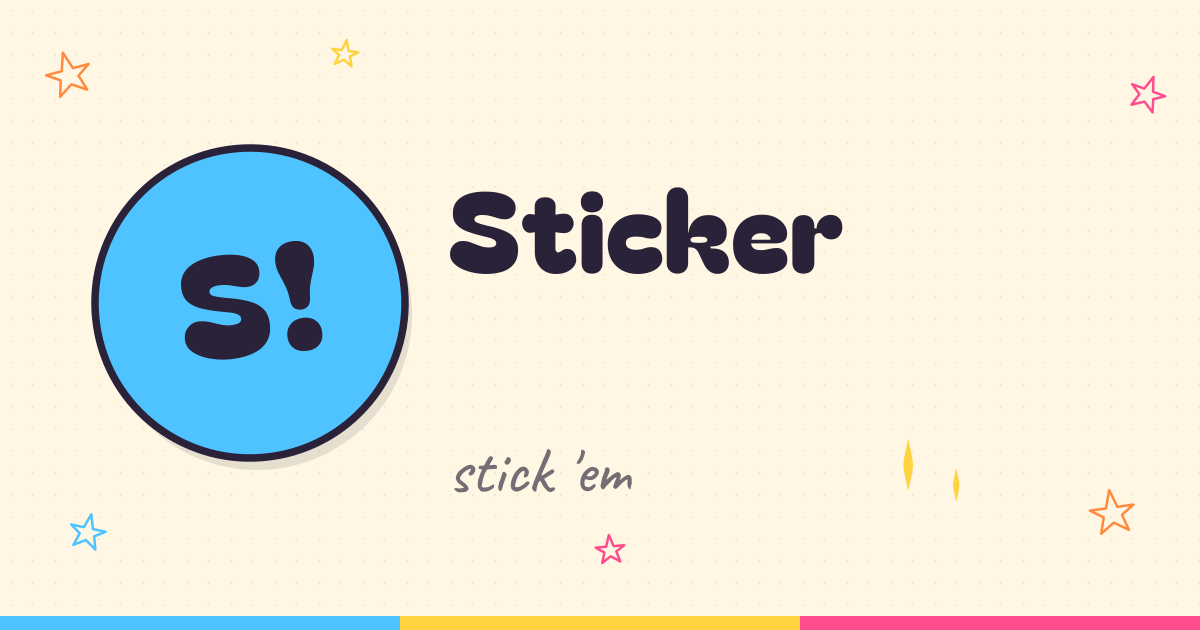
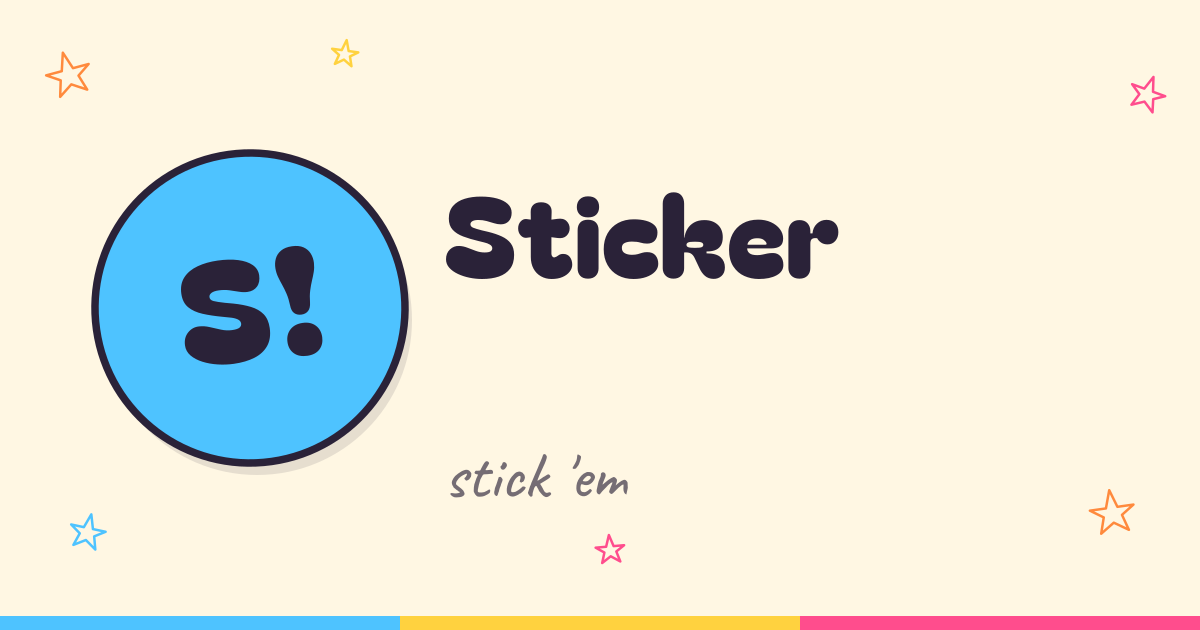
Fix OG image text truncation — remove polka dots
The 1512 SVG circle elements (~95KB) overwhelmed librsvg causing
it to bail mid-render, truncating 'Sticker Stop' to 'Sticker' and
'stick em everywhere' to 'stick em'. Removed dots and sparkles to
keep SVG under 40KB. Edge stars remain for decoration.

https://claude.ai/code/session_01Y8iosHZQgAJEX6SNKrp2Bk

diff --git a/scripts/gen-og.js b/scripts/gen-og.js
@@ -16,114 +16,80 @@ const root = path.resolve(__dirname, '..');
 const bagel  = opentype.parse(fs.readFileSync(path.join(root, 'BagelFatOne.ttf')).buffer);
 const caveat = opentype.parse(fs.readFileSync(path.join(root, 'Caveat-Regular.ttf')).buffer);
 
-// Returns an SVG <path> element with fill set
 function textPath(font, text, x, y, size, fill) {
   const p = font.getPath(text, x, y, size);
   p.fill = fill;
   return p.toSVG(2);
 }
 
-// Places text so its visual bounding-box centre sits at (cx, cy)
 function centred(font, text, cx, cy, size, fill) {
   const bb = font.getPath(text, 0, 0, size).getBoundingBox();
   return textPath(font, text, cx - (bb.x1 + bb.x2) / 2, cy - (bb.y1 + bb.y2) / 2, size, fill);
 }
 
-// ── Design tokens ─────────────────────────────────────────────────────────────
+// ── Tokens ────────────────────────────────────────────────────────────────────
 const paper    = '#fff7e3';
 const ink      = '#2a2238';
 const blue     = '#4ec3ff';
 const yellow   = '#ffd23f';
 const pink     = '#ff4d8d';
 const orange   = '#ff8a3d';
-const inkMuted = '#756d74'; // ink at ~65% opacity on paper
+const inkMuted = '#756d74';
 
 const W = 1200, H = 630, BAR = 14;
+const badgeCx = 250, badgeCy = 308, badgeR = 155;
 
-// ── Badge ─────────────────────────────────────────────────────────────────────
-const badgeCx = 250, badgeCy = Math.round((H - BAR) / 2) - 5, badgeR = 155;
-
-// ── Text layout — vertically centre the two-line block on the badge ───────────
+// ── Text layout ───────────────────────────────────────────────────────────────
 const TITLE_SZ   = 112;
 const TAGLINE_SZ = 64;
-const TEXT_X     = 448;
+const TEXT_X     = 444;
 
-const tBB  = bagel.getPath('Sticker Stop', 0, 0, TITLE_SZ).getBoundingBox();
-const gBB  = caveat.getPath("stick 'em everywhere", 0, 0, TAGLINE_SZ).getBoundingBox();
+const tBB = bagel.getPath('Sticker Stop', 0, 0, TITLE_SZ).getBoundingBox();
+const gBB = caveat.getPath("stick 'em everywhere", 0, 0, TAGLINE_SZ).getBoundingBox();
 
-const LINE_GAP   = 66;
-const blockH     = (tBB.y2 - tBB.y1) + LINE_GAP + (gBB.y2 - gBB.y1);
-const titleY     = badgeCy - blockH / 2 - tBB.y1;
-const taglineY   = titleY + (tBB.y2 - tBB.y1) + LINE_GAP - gBB.y1;
+const LINE_GAP = 66;
+const blockH   = (tBB.y2 - tBB.y1) + LINE_GAP + (gBB.y2 - gBB.y1);
+const titleY   = badgeCy - blockH / 2 - tBB.y1;
+const taglineY = titleY + (tBB.y2 - tBB.y1) + LINE_GAP - gBB.y1;
 
-// Sparkles sit just right of the tagline, centred on it
-const taglineRight = TEXT_X + (gBB.x2 - gBB.x1);
-const sparkMidY    = taglineY + (gBB.y1 + gBB.y2) / 2;
-
-// ── 4-pointed sparkle star ────────────────────────────────────────────────────
-function sparkle(cx, cy, r, color) {
-  const ri = r * 0.18;
-  const d = `M0,${-r} C${ri},${-ri} ${ri},${-ri} ${ri},0 C${ri},${ri} ${ri},${ri} 0,${r} C${-ri},${ri} ${-ri},${ri} ${-ri},0 C${-ri},${-ri} ${-ri},${-ri} 0,${-r}Z`;
-  return `<path d="${d}" fill="${color}" transform="translate(${cx},${cy})"/>`;
-}
-
-// ── Outline star (edge decoration) ───────────────────────────────────────────
-const S = 'M0-10 2.9-1.2 11-1.2 4.6 3.1 7 11 0 6.4-7 11-4.6 3.1-11-1.2-2.9-1.2z';
-function edgeStar(cx, cy, sz, color, rot = 0) {
+// ── Outline star ──────────────────────────────────────────────────────────────
+const STAR = 'M0-10 2.9-1.2 11-1.2 4.6 3.1 7 11 0 6.4-7 11-4.6 3.1-11-1.2-2.9-1.2z';
+function star(cx, cy, sz, color, rot = 0) {
   const sc = sz / 20;
   return `<g transform="translate(${cx},${cy}) rotate(${rot}) scale(${sc})">
-    <path d="${S}" fill="none" stroke="${color}" stroke-width="${2.5 / sc}" stroke-linejoin="round"/>
+    <path d="${STAR}" fill="none" stroke="${color}" stroke-width="${2.5 / sc}" stroke-linejoin="round"/>
   </g>`;
 }
 
-// ── Polka dots ────────────────────────────────────────────────────────────────
-function dots() {
-  let out = '';
-  for (let x = 11; x < W; x += 22)
-    for (let y = 11; y < H - BAR; y += 22)
-      out += `<circle cx="${x}" cy="${y}" r="1.3" fill="${ink}" opacity="0.055"/>`;
-  return out;
-}
-
 // ── SVG ───────────────────────────────────────────────────────────────────────
+const titleSvg   = textPath(bagel,  'Sticker Stop',         TEXT_X, titleY,   TITLE_SZ,   ink);
+const taglineSvg = textPath(caveat, "stick 'em everywhere", TEXT_X, taglineY, TAGLINE_SZ, inkMuted);
+
 const svg = `<svg xmlns="http://www.w3.org/2000/svg" width="${W}" height="${H}" viewBox="0 0 ${W} ${H}">
-
   <rect width="${W}" height="${H}" fill="${paper}"/>
-  ${dots()}
 
-  <!-- Edge stars -->
-  ${edgeStar(68,   72,  40, orange, -15)}
-  ${edgeStar(1148, 92,  32, pink,    20)}
-  ${edgeStar(1112, 510, 40, orange,  -8)}
-  ${edgeStar(88,  530,  32, blue,    12)}
-  ${edgeStar(345,  52,  24, yellow,   8)}
-  ${edgeStar(610, 548,  26, pink,    -5)}
+  ${star(68,   72,  40, orange, -15)}
+  ${star(1148,  92, 32, pink,    20)}
+  ${star(1112, 510, 40, orange,  -8)}
+  ${star(88,  530,  32, blue,    12)}
+  ${star(345,   52, 24, yellow,   8)}
+  ${star(610,  548, 26, pink,    -5)}
 
-  <!-- Badge shadow -->
   <circle cx="${badgeCx + 7}" cy="${badgeCy + 12}" r="${badgeR}" fill="${ink}" opacity="0.12"/>
-
-  <!-- Badge (rotated -8°) -->
   <g transform="rotate(-8 ${badgeCx} ${badgeCy})">
     <circle cx="${badgeCx}" cy="${badgeCy}" r="${badgeR}" fill="${blue}" stroke="${ink}" stroke-width="7.5"/>
     ${centred(bagel, 'S!', badgeCx, badgeCy, 142, ink)}
   </g>
 
-  <!-- Wordmark -->
-  ${textPath(bagel,  'Sticker Stop',          TEXT_X, titleY,   TITLE_SZ,   ink)}
+  ${titleSvg}
+  ${taglineSvg}
 
-  <!-- Tagline -->
-  ${textPath(caveat, "stick 'em everywhere",  TEXT_X, taglineY, TAGLINE_SZ, inkMuted)}
-
-  <!-- Sparkles -->
-  ${sparkle(taglineRight + 28, sparkMidY - 12, 26, yellow)}
-  ${sparkle(taglineRight + 76, sparkMidY +  8, 17, yellow)}
-
-  <!-- Bottom colour bar -->
   <rect y="${H - BAR}" width="${W / 3}"   height="${BAR}" fill="${blue}"/>
   <rect x="${W / 3}"   y="${H - BAR}" width="${W / 3}" height="${BAR}" fill="${yellow}"/>
   <rect x="${2*W/3}"   y="${H - BAR}" width="${W / 3}" height="${BAR}" fill="${pink}"/>
 </svg>`;
 
+console.log('SVG size:', svg.length, 'chars');
 const out = path.join(root, 'static', 'og.png');
 await sharp(Buffer.from(svg)).png().toFile(out);
 console.log('✓ Generated', out);
